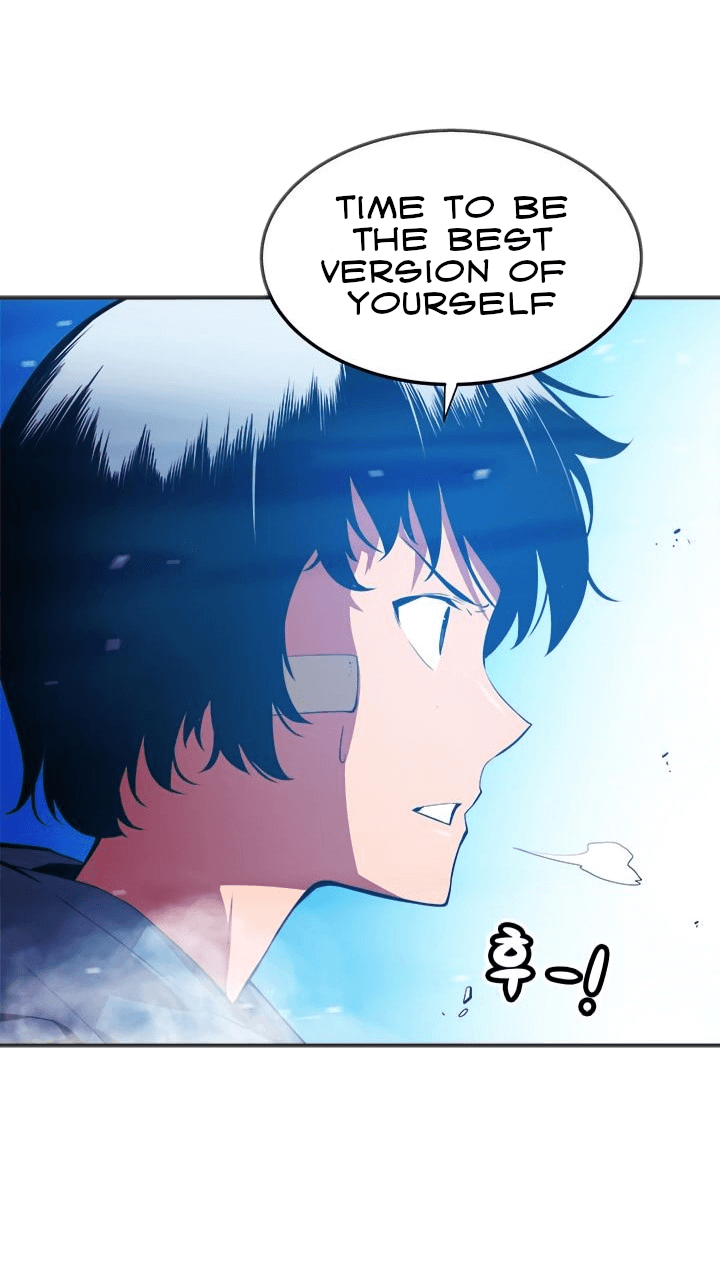
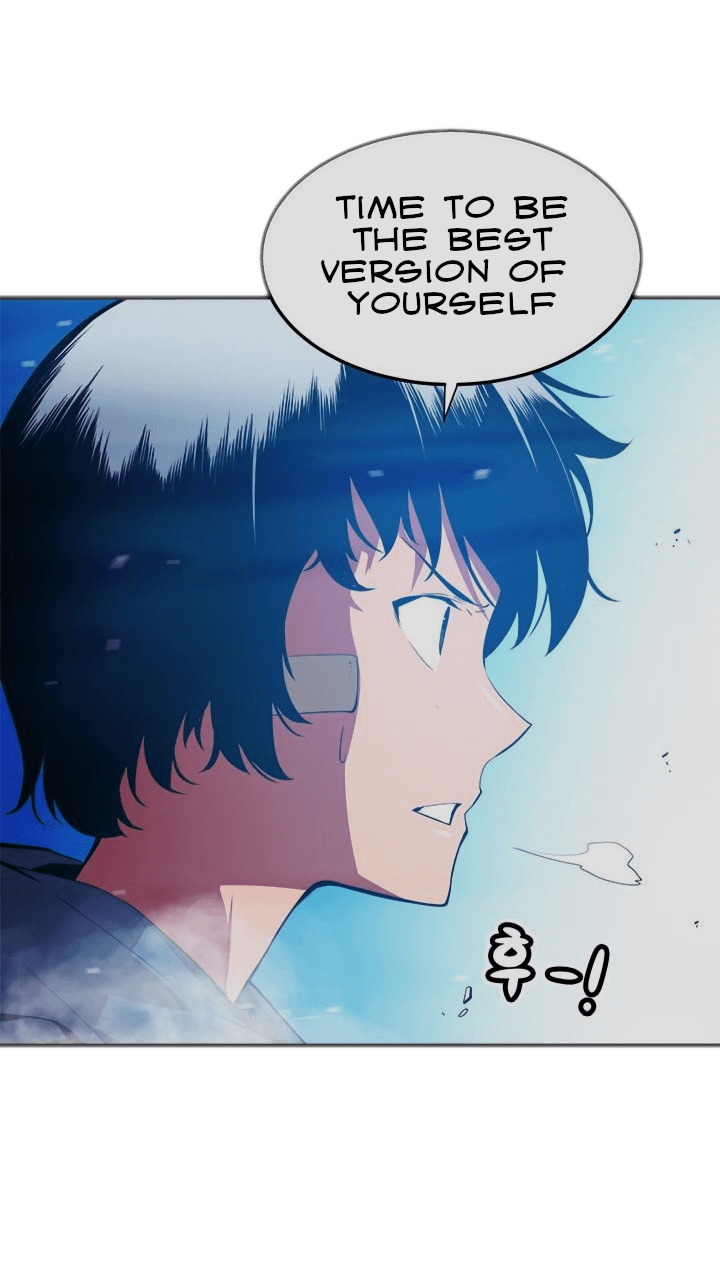
0.4.5

diff --git a/css/style.css b/css/style.css
@@ -59,7 +59,7 @@ button {
 }
 /* -----COMMON----- */
 body {
-  color: #fff;
+  color: #dfdfdf;
   background-color: #000;
   -webkit-touch-callout: none;
   -webkit-user-select: none;
@@ -82,6 +82,7 @@ body {
 
 .page {
   flex: 1 1 auto;
+  background-color: #dfdfdf;
 }
 
 /* -----COMMON----- */
@@ -99,24 +100,24 @@ body {
   gap: 5px;
   z-index: 10;
   background: -0.5%/25% no-repeat url("../assets/img/intro/bg-01.png"), 33%/25% no-repeat url("../assets/img/intro/bg-02.png"), 66.5%/25% no-repeat url("../assets/img/intro/bg-03.png"), 100%/25% no-repeat url("../assets/img/intro/bg-04.png");
-  background-color: #fff;
+  background-color: #dfdfdf;
 }
 @media (max-width: 61.9988em) {
   .page__initial {
     background: -0.5%/33% no-repeat url("../assets/img/intro/bg-01.png"), 50%/33% no-repeat url("../assets/img/intro/bg-02.png"), 100%/33% no-repeat url("../assets/img/intro/bg-04.png");
-    background-color: #fff;
+    background-color: #dfdfdf;
   }
 }
 @media (max-width: 47.9988em) {
   .page__initial {
     background: 0%/50% no-repeat url("../assets/img/intro/bg-01.png"), 100%/50% no-repeat url("../assets/img/intro/bg-04.png");
-    background-color: #fff;
+    background-color: #dfdfdf;
   }
 }
 @media (max-width: 35.9988em) {
   .page__initial {
     background: 0%/100% no-repeat url("../assets/img/intro/bg-01.png");
-    background-color: #fff;
+    background-color: #dfdfdf;
   }
 }
 .page__main {
@@ -125,6 +126,7 @@ body {
   width: 100%;
   text-align: center;
   z-index: 1;
+  color: #000;
   font-family: "sololeveling";
   font-size: 128px;
 }
@@ -190,7 +192,7 @@ body {
   width: 100%;
   opacity: 0.8;
   border-radius: 5px;
-  background-color: #750102;
+  background-color: #781302;
 }
 
 .active {
@@ -205,7 +207,7 @@ body {
   left: 0;
   width: 100%;
   height: 100%;
-  background: #000;
+  background: #dfdfdf;
   opacity: 0;
   z-index: 50;
   transition: opacity 0.5s ease;

diff --git a/scss/style.scss b/scss/style.scss
@@ -11,8 +11,10 @@ $breakpoint-1: 61.9988em;
 $breakpoint-2: 47.9988em;
 $breakpoint-3: 35.9988em;
 
-$white: #fff;
+$white: #dfdfdf;
 $black: #000;
+
+
 /* -----COMMON----- */
 body {
 	color: $white;
@@ -39,6 +41,7 @@ body {
 
 .page {
 	flex: 1 1 auto;
+	background-color: $white;
 }
 /* -----COMMON----- */
 .page {
@@ -82,6 +85,7 @@ body {
 		width: 100%;
 		text-align: center;
 		z-index: 1;
+		color: $black;
 		font-family: "sololeveling";
 		@include adaptiv-value("font-size", 128, 48, 1);
 		img{
@@ -145,8 +149,7 @@ body {
 	width: 100%;
 	opacity: 0.8;
 	border-radius: 5px;
-	
-	background-color: #750102;
+	background-color: #781302;
 }
 .active{
 	display: flex;
@@ -160,7 +163,7 @@ body {
   left: 0;
   width: 100%;
   height: 100%;
-  background: $black;
+  background: $white;
   opacity: 0;
   z-index: 50;
   transition: opacity 0.5s ease;
